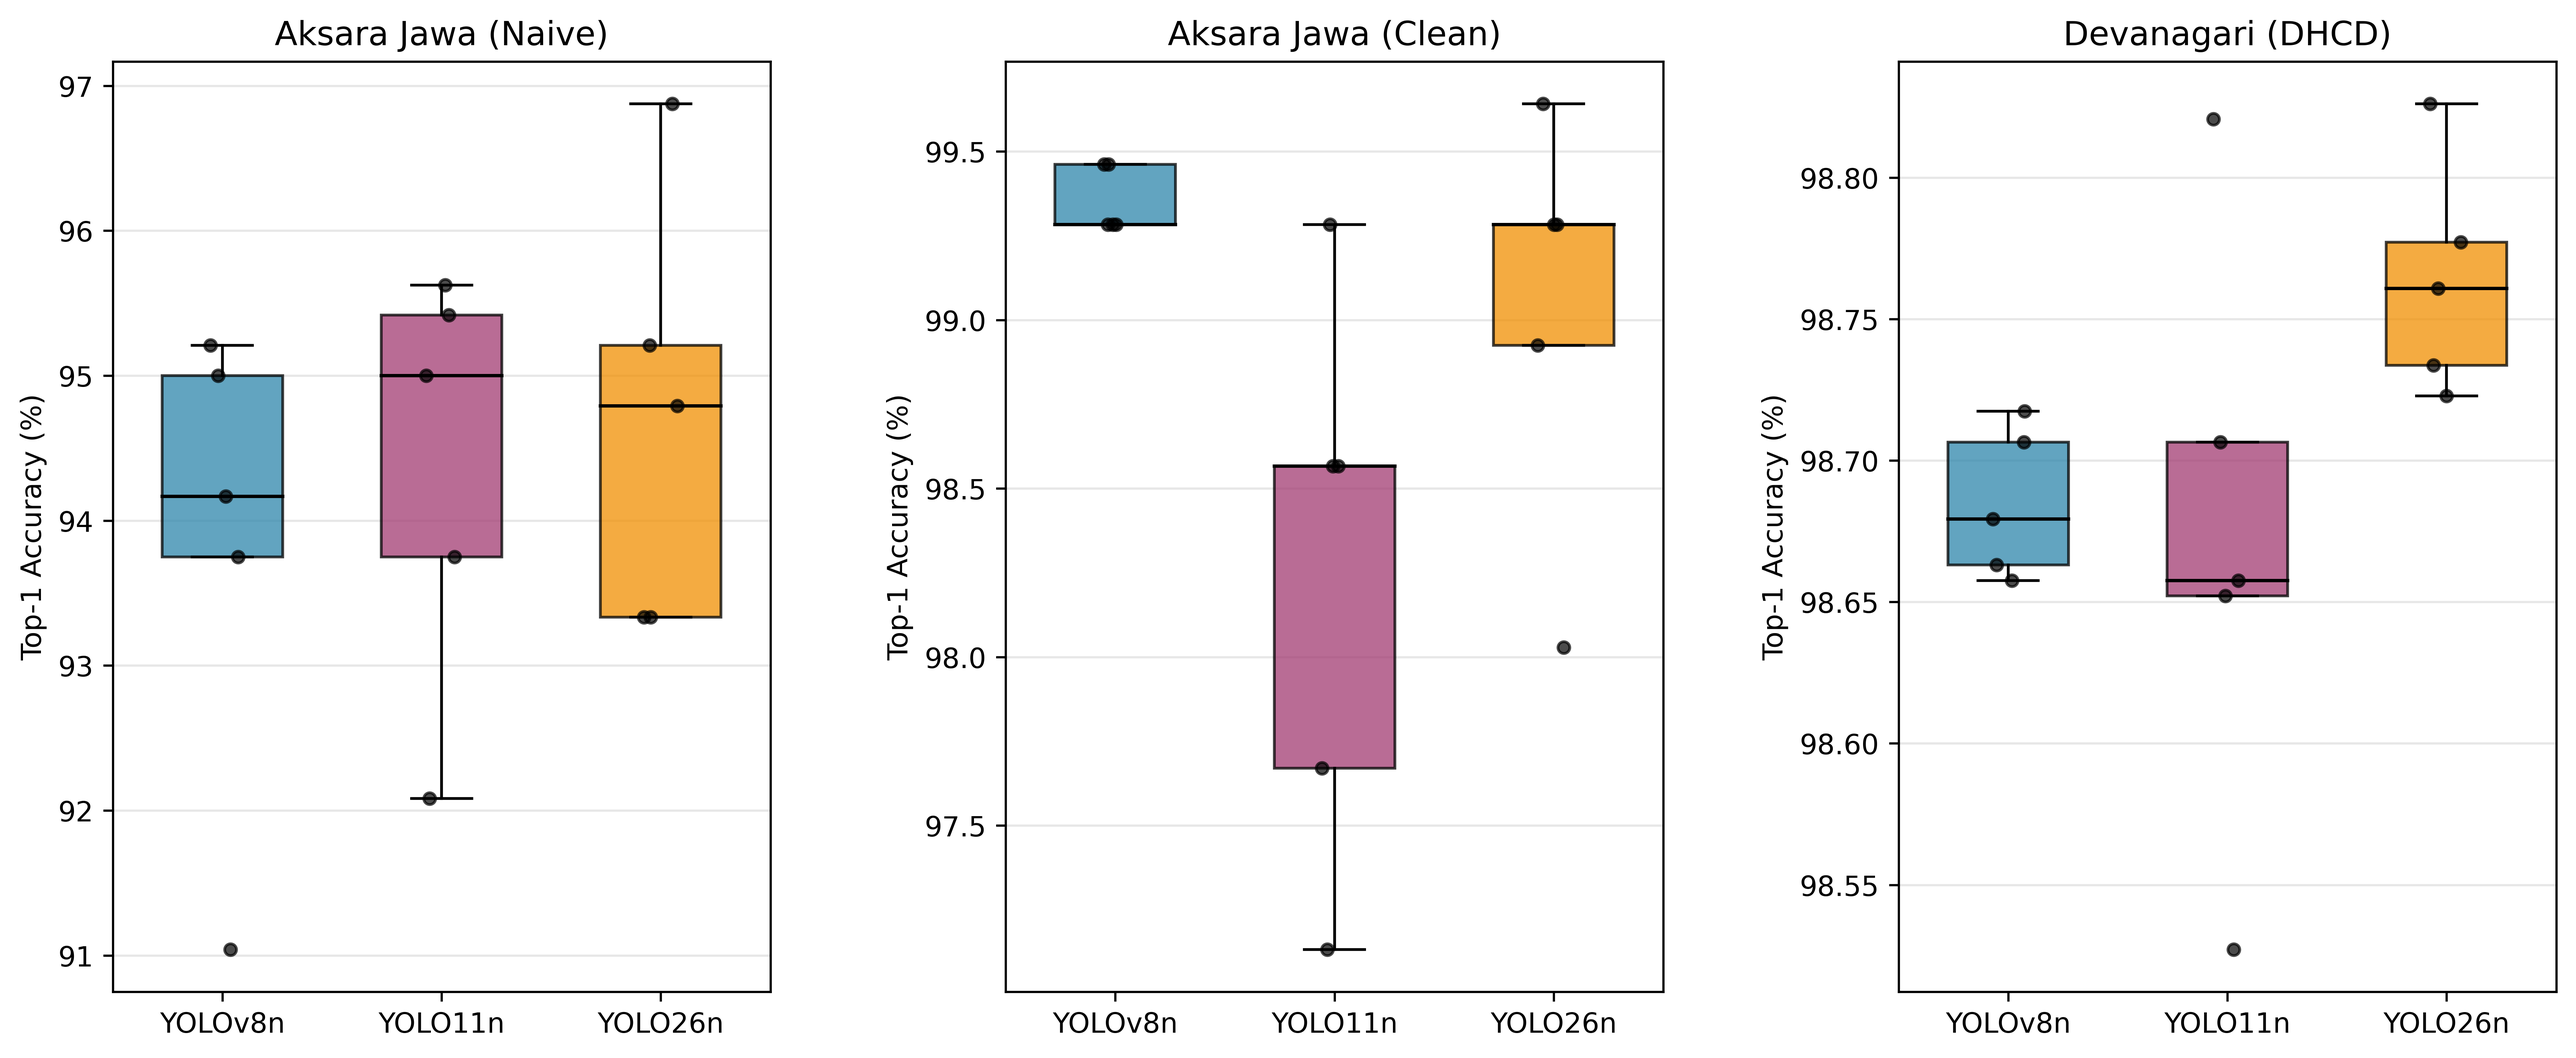
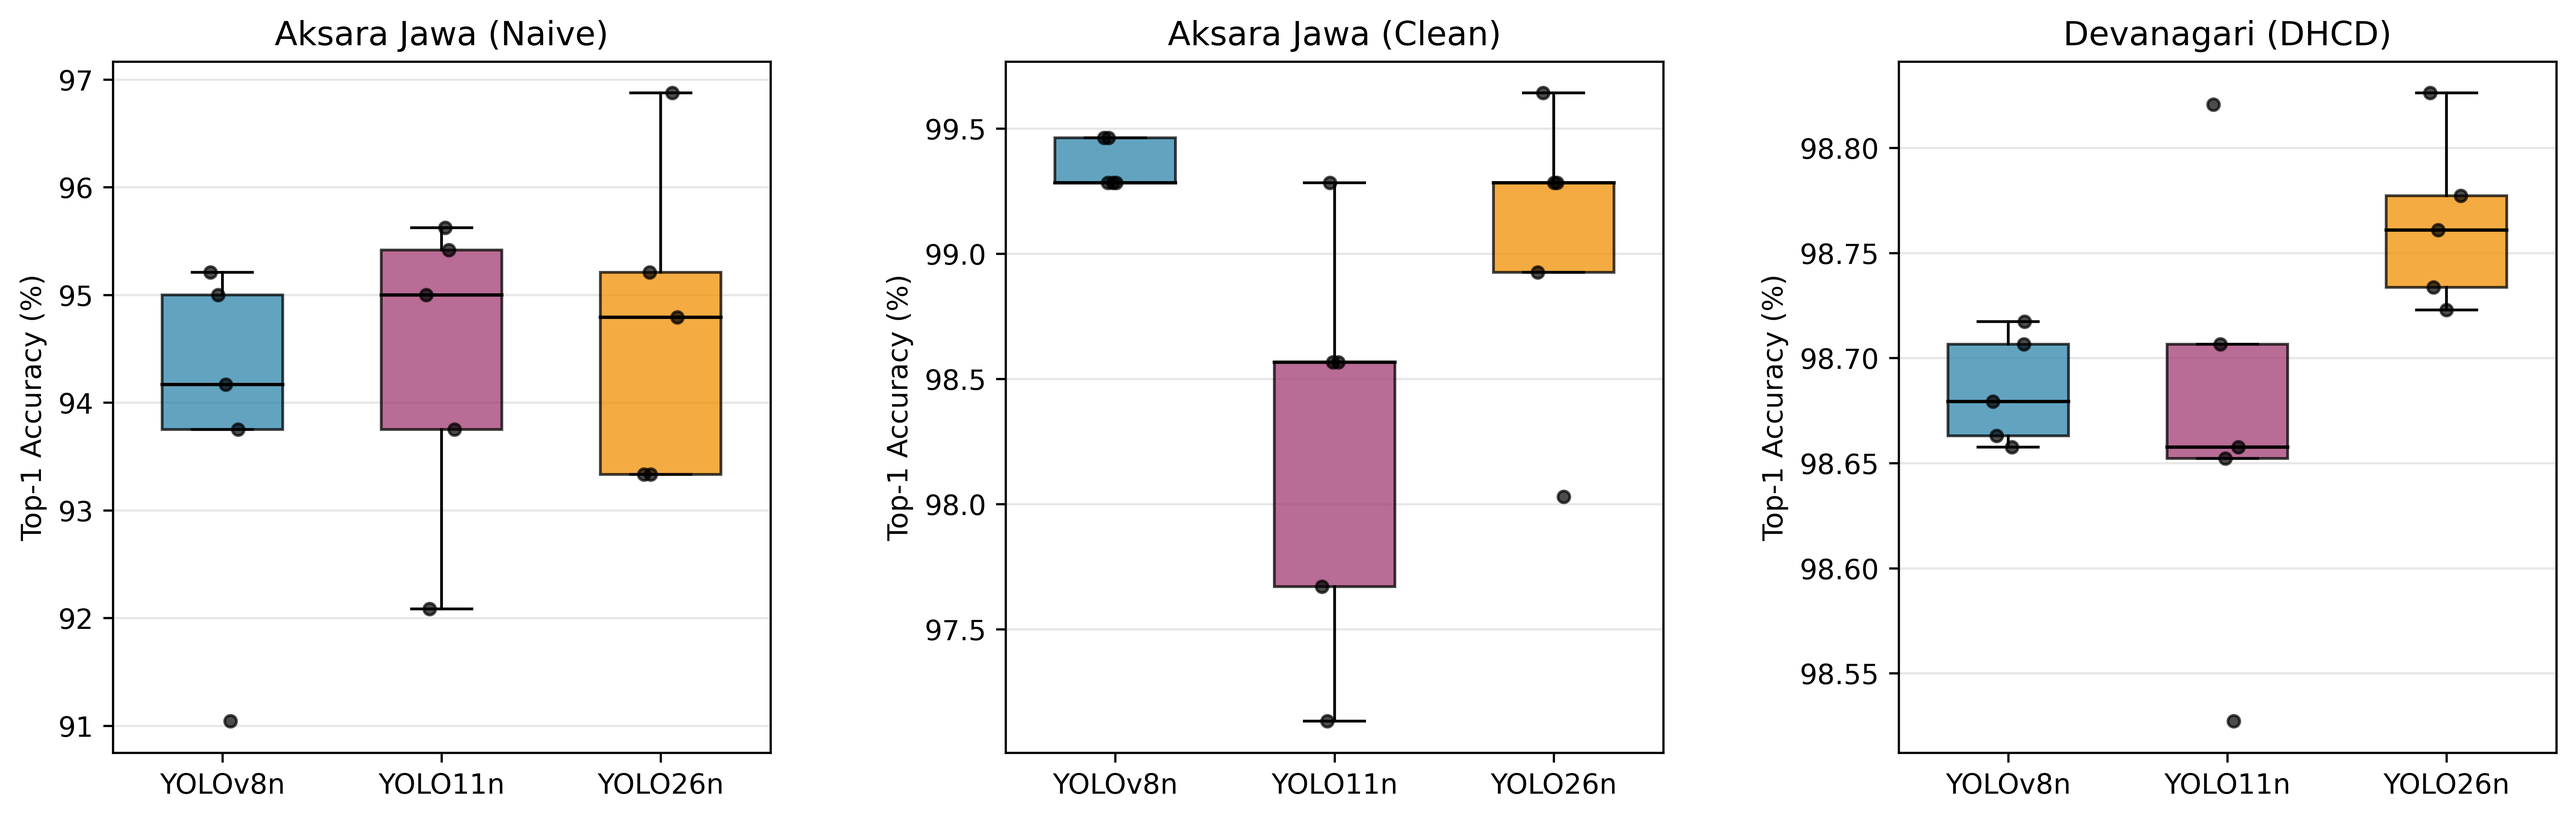
Align metadata, findings, and Figure 1 with the revised manuscript

diff --git a/scripts/generate_paper_figures.py b/scripts/generate_paper_figures.py
@@ -57,7 +57,9 @@ MODEL_COLORS = {'yolov8n': '#2E86AB', 'yolo11n': '#A23B72', 'yolo26n': '#F18F01'
 JITTER = np.random.RandomState(42)
 
 # ========== FIGURE 1: 3-Model Comparison (Box plot) ==========
-fig, axes = plt.subplots(1, 3, figsize=(13, 5.4), sharey=False)
+# (13, 4.2) is the aspect used in the paper: at the 11 cm print width it leaves
+# room for Table 3 under the figure on the same page. (13, 5.4) did not.
+fig, axes = plt.subplots(1, 3, figsize=(13, 4.2), sharey=False)
 datasets = [
     ('Aksara Jawa (Naive)', df_naive),
     ('Aksara Jawa (Clean)', df_clean),

diff --git a/README.md b/README.md
@@ -7,24 +7,25 @@ Source code, experiment logs, and per-seed results for the paper:
 > Ericks Rachmat Swedia¹, Cakra Trinata²
 >
 > ¹Department of Informatics Engineering, Faculty of Industrial Technology, Gunadarma University, Depok, Jawa Barat, Indonesia
-> ²Department of Immigration, Study Program in Immigration Technology Management, Politeknik Imigrasi dan Pemasyarakatan Indonesia, Tangerang, Banten, Indonesia
+> ²Department of Immigration, Study Program in Immigration Technology Management, Indonesian Immigration and Corrections Polytechnic, Tangerang, Banten, Indonesia
 >
 > Submitted to *Bulletin of Electrical Engineering and Informatics (BEEI)*, submission 13400. Major revision returned 22 August 2026, revised version prepared.
 
 ## Overview
 
-Modern YOLO releases have added attention to the backbone, and YOLO11 and YOLO26 both carry a C2PSA spatial attention block that YOLOv8 does not have. This study asks whether that block earns its place when the task is isolated character classification, where a single glyph sits on a near-empty background.
+Modern YOLO releases have added attention to the backbone, and YOLO11 and YOLO26 both carry a C2PSA spatial attention block that YOLOv8 does not have. This study asks whether that block improves isolated character classification, where each image contains one centered glyph on a mostly empty background.
 
-Three YOLO generations (YOLOv8n, YOLO11n, YOLO26n) are compared on two scripts, Javanese (Aksara Jawa) and Devanagari (DHCD), with five seeds per configuration, followed by an ablation that replaces the C2PSA block with a C3k2 block. Across every setting the attention-equipped variants show no consistent advantage, and on the smaller dataset the attention block makes training measurably less stable.
+Three YOLO generations (YOLOv8n, YOLO11n, YOLO26n) are compared on two scripts, Javanese (Aksara Jawa) and Devanagari (DHCD), with five seeds per configuration, followed by an ablation that replaces the C2PSA block with a C3k2 block. In none of the settings did the attention-equipped models show a consistent advantage, and on the smaller dataset C2PSA was associated with greater training variation across seeds under the tested protocol.
 
 ## Key findings
 
-- **No consistent advantage from attention.** No architecture generation differs significantly from the others in any of the three settings. Repeated-measures ANOVA returns p values from 0.071 to 0.722.
-- **Removing C2PSA does not hurt, and usually helps.** Cohen's d reaches -1.13 on the Aksara Jawa clean split, a large effect in favor of the attention-free variant.
-- **Attention widens the failure mode.** One with-attention run collapsed mid-training, with validation loss jumping from 0.68 to 20.76 in a single epoch and accuracy falling to 4.30%, below the 5% that random guessing gives on 20 classes. No attention-free run behaves like this. See `figures/fig3_convergence.pdf`.
+- **No statistically significant overall difference among the three generations.** Repeated-measures ANOVA gave p = 0.722 (Aksara Jawa naive split), p = 0.071 (Aksara Jawa clean split), and p = 0.114 (DHCD). On the clean Aksara Jawa split, YOLOv8n achieved the highest mean accuracy (99.35%) and the smallest standard deviation across seeds (0.10 percentage points).
+- **C2PSA did not provide a consistent accuracy advantage.** On the Aksara Jawa clean split the variant without C2PSA achieved 95.63% against 91.97% with C2PSA. The paired difference was not statistically significant (p = 0.166), but Cohen's d = -1.13 indicates a large effect favoring the variant without C2PSA. On DHCD the two variants differed by 0.02 percentage points.
+- **C2PSA was associated with greater training variation under the tested protocol.** One C2PSA run collapsed at epoch 20, with validation loss rising from 0.68 to 20.76 and validation accuracy falling to 4.30%, below the 5% expected from random classification across 20 classes. The standard deviation across seeds was 4.25 percentage points with C2PSA against 1.71 without. See `figures/fig3_convergence.pdf`.
+- **YOLOv8n trained fastest.** YOLO26n required 39.31% more training time than YOLOv8n on DHCD for an accuracy difference of 0.08 percentage points. Removing C2PSA alone did not reduce training time in the ablation, so the efficiency difference belongs to the model generation rather than to the attention block.
 - **The public Aksara Jawa split leaks.** Exactly 25% of its validation images are augmented variants of images that appear in the training partition, 6 per class across all 20 classes. A corrected split is provided.
 
-Every number above is reproducible from the per-seed CSV files in `results/` without retraining:
+Every number above is reproducible without retraining, from the per-seed CSV files in `results/` and the per-epoch logs in `runs/`:
 
 ```bash
 python scripts/compute_paper_stats.py
@@ -256,4 +257,4 @@ MIT. See [LICENSE](LICENSE).
 ## Contact
 
 - Ericks Rachmat Swedia, ericks_rs@staff.gunadarma.ac.id ([ORCID 0000-0002-9436-0300](https://orcid.org/0000-0002-9436-0300))
-- Cakra Trinata, trinatacakra@gmail.com ([ORCID 0009-0009-6039-5343](https://orcid.org/0009-0009-6039-5343))
+- Cakra Trinata, cakra.trinata@poltekim.ac.id ([ORCID 0009-0009-6039-5343](https://orcid.org/0009-0009-6039-5343))
